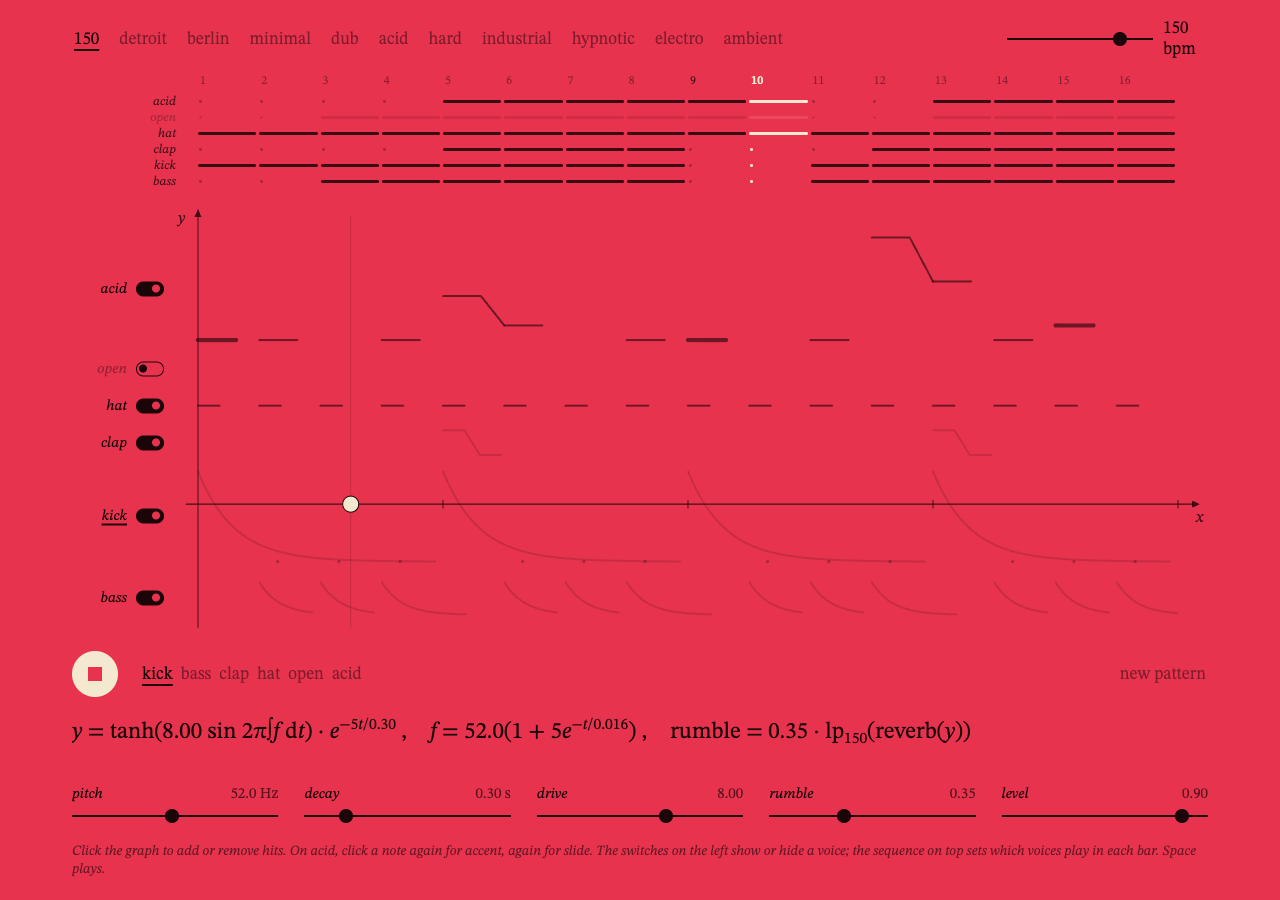
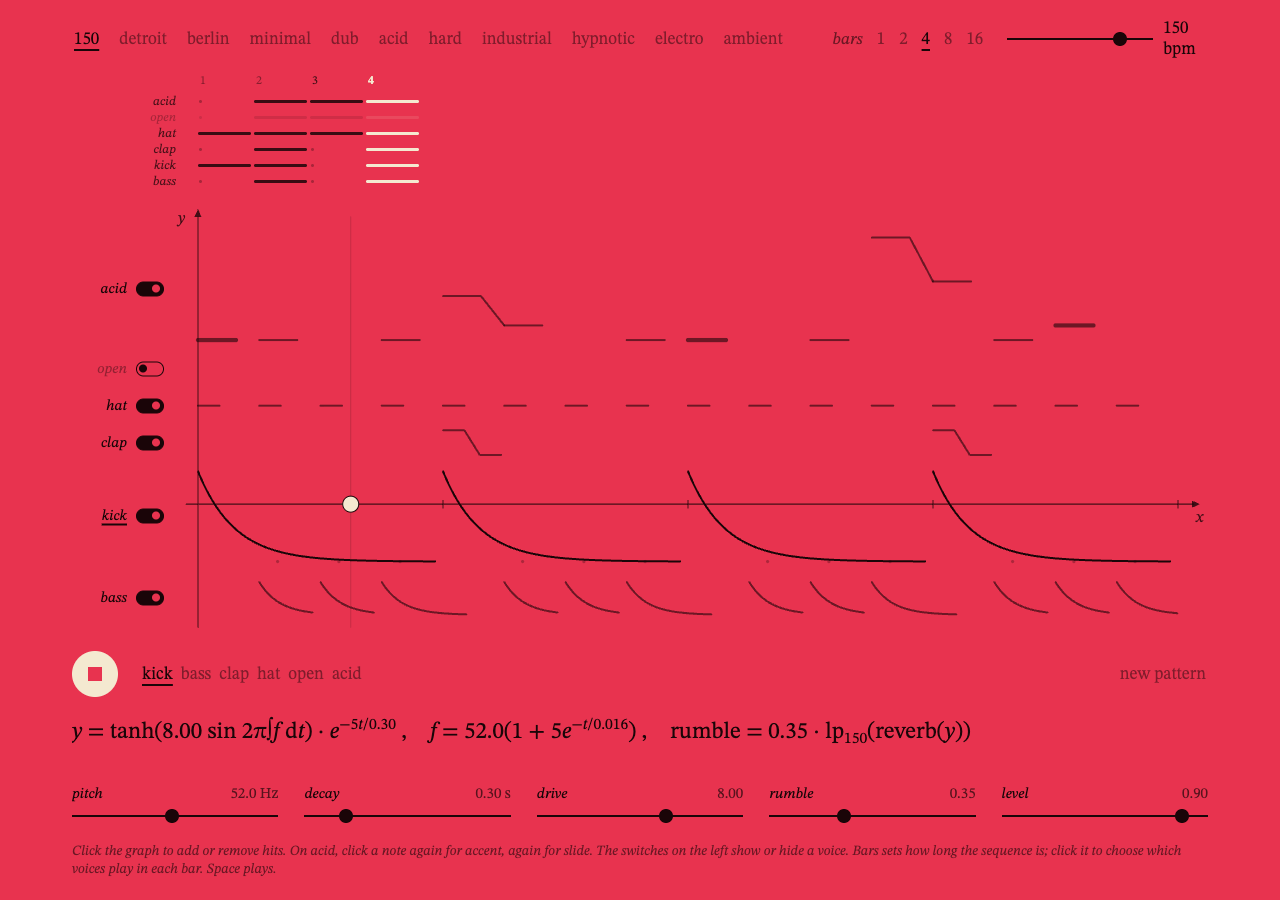
Shorter sequence with a bars chooser (1, 2, 4, 8, 16)
- Default 4 bars (intro, full, break, drop); 1 hides the sequence and loops
- Compact strip, columns no wider than 56px

diff --git a/index.html b/index.html
@@ -47,7 +47,10 @@ canvas{position:absolute;inset:0;width:100%;height:100%;cursor:crosshair;touch-a
 .tg[aria-pressed="true"] .sw{background:var(--ink)}
 .tg[aria-pressed="true"] .sw i{transform:translateX(13px);background:var(--bg)}
 /* sequencer: 16 bars, columns line up with the 16 steps of the graph below */
-#seq{display:grid;grid-template-columns:126px repeat(16,minmax(0,1fr));padding-right:30px;row-gap:1px;user-select:none}
+#seq{display:grid;grid-template-columns:126px repeat(var(--n),minmax(0,56px));row-gap:1px;user-select:none}
+#seq[hidden]{display:none}
+#bars{display:flex;align-items:center;gap:2px 10px;font-variant-numeric:tabular-nums}
+#bars span{font-style:italic;opacity:.6;margin-right:2px}
 #seq .lab{font-style:italic;text-align:right;padding-right:22px;font-size:13px;line-height:15px;opacity:.75}
 #seq .lab.off{opacity:.3}
 #seq .num{font-size:12px;opacity:.45;text-align:left;font-variant-numeric:tabular-nums;cursor:pointer;padding:0 0 4px 2px}
@@ -81,6 +84,7 @@ input[type=range]::-moz-range-thumb{width:14px;height:14px;border:0;border-radiu
   <header>
     <div id="scenes" role="group" aria-label="Scene"></div>
     <span class="sp"></span>
+    <div id="bars" role="group" aria-label="How many bars in the sequence"><span>bars</span></div>
     <div class="tempo"><input id="bpm" type="range" min="110" max="160" step="1" aria-label="Tempo"><span id="bpmv"></span></div>
   </header>
   <section id="seq" aria-label="Sequence: which voices play in each of 16 bars"></section>
@@ -99,7 +103,7 @@ input[type=range]::-moz-range-thumb{width:14px;height:14px;border:0;border-radiu
 
   <div id="formula" aria-live="off"></div>
   <div id="knobs"></div>
-  <p class="hint">Click the graph to add or remove hits. On acid, click a note again for accent, again for slide. The switches on the left show or hide a voice; the sequence on top sets which voices play in each bar. Space plays.</p>
+  <p class="hint">Click the graph to add or remove hits. On acid, click a note again for accent, again for slide. The switches on the left show or hide a voice. Bars sets how long the sequence is; click it to choose which voices play in each bar. Space plays.</p>
 </div>
 
 <script>
@@ -165,7 +169,10 @@ const SCENES=[
   set:{kick:{pitch:46,decay:.45,drive:1.2,level:.7},bass:{cut:180,decay:.7},hat:{level:.25}},
   pat:{kick:b('x.......x.......'),bass:b('x.......x.......'),clap:b('................'),hat:b('..x...x...x...x.'),open:b('................'),acid:a('- - - - 4 - - - - - - 7 - - - -')}}
 ];
-for(const s of SCENES){s.P=defaults();for(const v in s.set)Object.assign(s.P[v],s.set[v]);s.arr={};for(const v of TABS)s.arr[v]=b(ARR[v])}
+const PICK={1:[12],2:[4,12],4:[0,4,9,12],8:[0,2,4,6,8,10,12,14],16:[...Array(16).keys()]};
+let nBars=4;
+const arrange=s=>{s.arr={};for(const v of TABS)s.arr[v]=PICK[nBars].map(i=>ARR[v][i]==='x'?1:0)};
+for(const s of SCENES){s.P=defaults();for(const v in s.set)Object.assign(s.P[v],s.set[v]);arrange(s)}
 let scene=SCENES[0],pat=scene.pat,P=scene.P,bpm=scene.bpm,sel='kick';
 const SCALE=()=>MODES[scene.mode];
 const ROOT=()=>hz(scene.root);
@@ -270,7 +277,7 @@ function acid(i,t,sd){
   }
   if(!(s.s&&next))N.vca.gain.setTargetAtTime(0,t+sd*.55,.012);
 }
-const live=(v,bar)=>ON[v]&&!!scene.arr[v][bar];   // a voice sounds if its switch is on and its bar is lit
+const live=(v,bar)=>ON[v]&&!!scene.arr[v][bar%nBars];   // a voice sounds if its switch is on and its bar is lit
 function fire(i,t,bar){
   const sd=60/bpm/4;
   if(pat.kick[i]&&live('kick',bar))kick(t);
@@ -288,7 +295,7 @@ function tick(){
   const sd=60/bpm/4;
   while(nextT<ac.currentTime+.1){
     const sw=step%2?(scene.swing/100-.5)*2*sd:0;fire(step,nextT+sw,bar);queue.push({s:step,b:bar,t:nextT});nextT+=sd;
-    if(++step===16){step=0;bar=nextBar!=null?nextBar:(bar+1)%16;nextBar=null}
+    if(++step===16){step=0;bar=nextBar!=null?nextBar:(bar+1)%nBars;nextBar=null}
   }
   timer=setTimeout(tick,25);
 }
@@ -323,7 +330,7 @@ function draw(){
   if(cur!==shownBar){shownBar=cur;for(const el of document.querySelectorAll('#seq [data-b]'))el.classList.toggle('now',+el.dataset.b===cur)}
   for(const v of ROWS){
     if(!ON[v])continue;
-    const [b0,b1]=BAND[v],top=Y(b0),bot=Y(b1),mid=(top+bot)/2,on=v===sel,resting=cur!=null&&!scene.arr[v][cur];
+    const [b0,b1]=BAND[v],top=Y(b0),bot=Y(b1),mid=(top+bot)/2,on=v===sel,resting=cur!=null&&!scene.arr[v][cur%nBars];
     // faint grid for the selected voice shows where a click lands
     if(on){cx.globalAlpha=.28;for(let i=0;i<16;i++){if(v==='acid'){for(let d=0;d<8;d++)dotAt(X(i)+sw*.3,acidY(d),1.3)}else if(!pat[v][i])dotAt(X(i)+sw*.3,v==='kick'||v==='bass'?bot:mid,1.6)}}
     cx.globalAlpha=resting?.16:on?1:.6;cx.lineWidth=2;
@@ -434,10 +441,14 @@ for(const el of $('side').children)el.onclick=()=>{
   renderSeq();
 };
 function renderSeq(){
-  let h='<div class="lab"></div>'+Array.from({length:16},(_,i)=>`<div class="num" data-b="${i}" title="start from bar ${i+1}">${i+1}</div>`).join('');
+  $('seq').hidden=nBars===1;$('seq').style.setProperty('--n',nBars);
+  for(const el of $('bars').querySelectorAll('button'))el.setAttribute('aria-pressed',+el.textContent===nBars);
+  let h='<div class="lab"></div>'+Array.from({length:nBars},(_,i)=>`<div class="num" data-b="${i}" title="start from bar ${i+1}">${i+1}</div>`).join('');
   for(const v of ROWS)h+=`<div class="lab${ON[v]?'':' off'}">${v}</div>`+scene.arr[v].map((x,i)=>`<div class="c${x?' on':''}${ON[v]?'':' off'}" data-v="${v}" data-b="${i}" title="${v}, bar ${i+1}"></div>`).join('');
   $('seq').innerHTML=h;shownBar=-1;
 }
+$('bars').insertAdjacentHTML('beforeend',[1,2,4,8,16].map(n=>`<button title="${n===1?'no sequence, just loop the pattern':n+' bar sequence'}">${n}</button>`).join(''));
+for(const el of $('bars').querySelectorAll('button'))el.onclick=()=>{nBars=+el.textContent;for(const s of SCENES)arrange(s);bar=bar%nBars;renderSeq()};
 $('seq').addEventListener('click',e=>{
   const c=e.target.closest('.c'),n=e.target.closest('.num');
   if(c){const a=scene.arr[c.dataset.v],i=+c.dataset.b;a[i]=a[i]?0:1;c.classList.toggle('on',!!a[i])}
